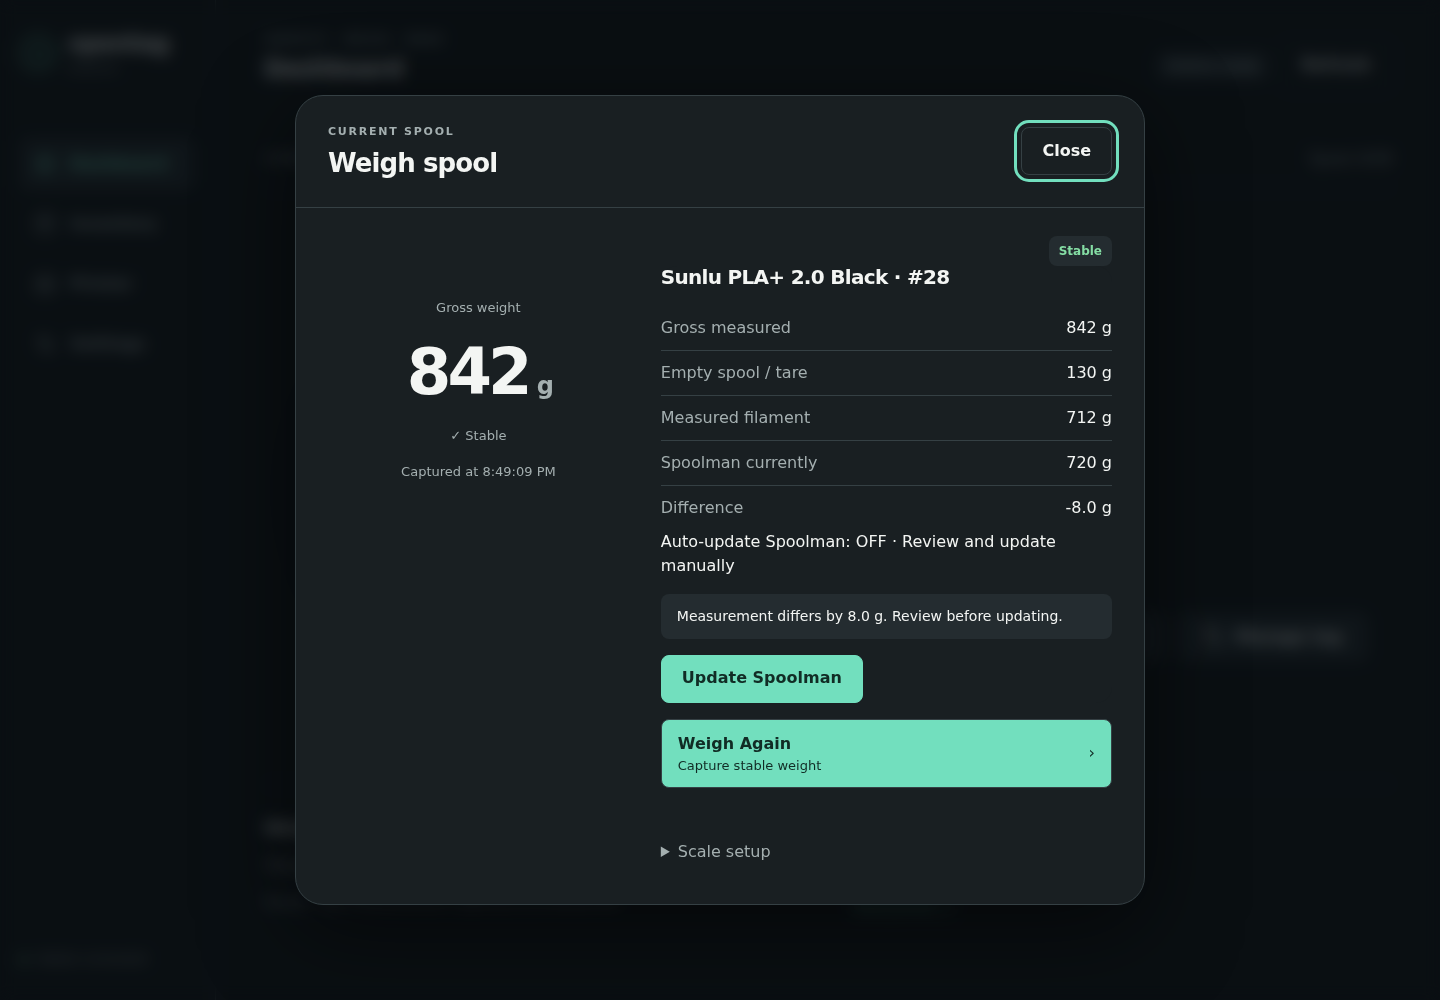
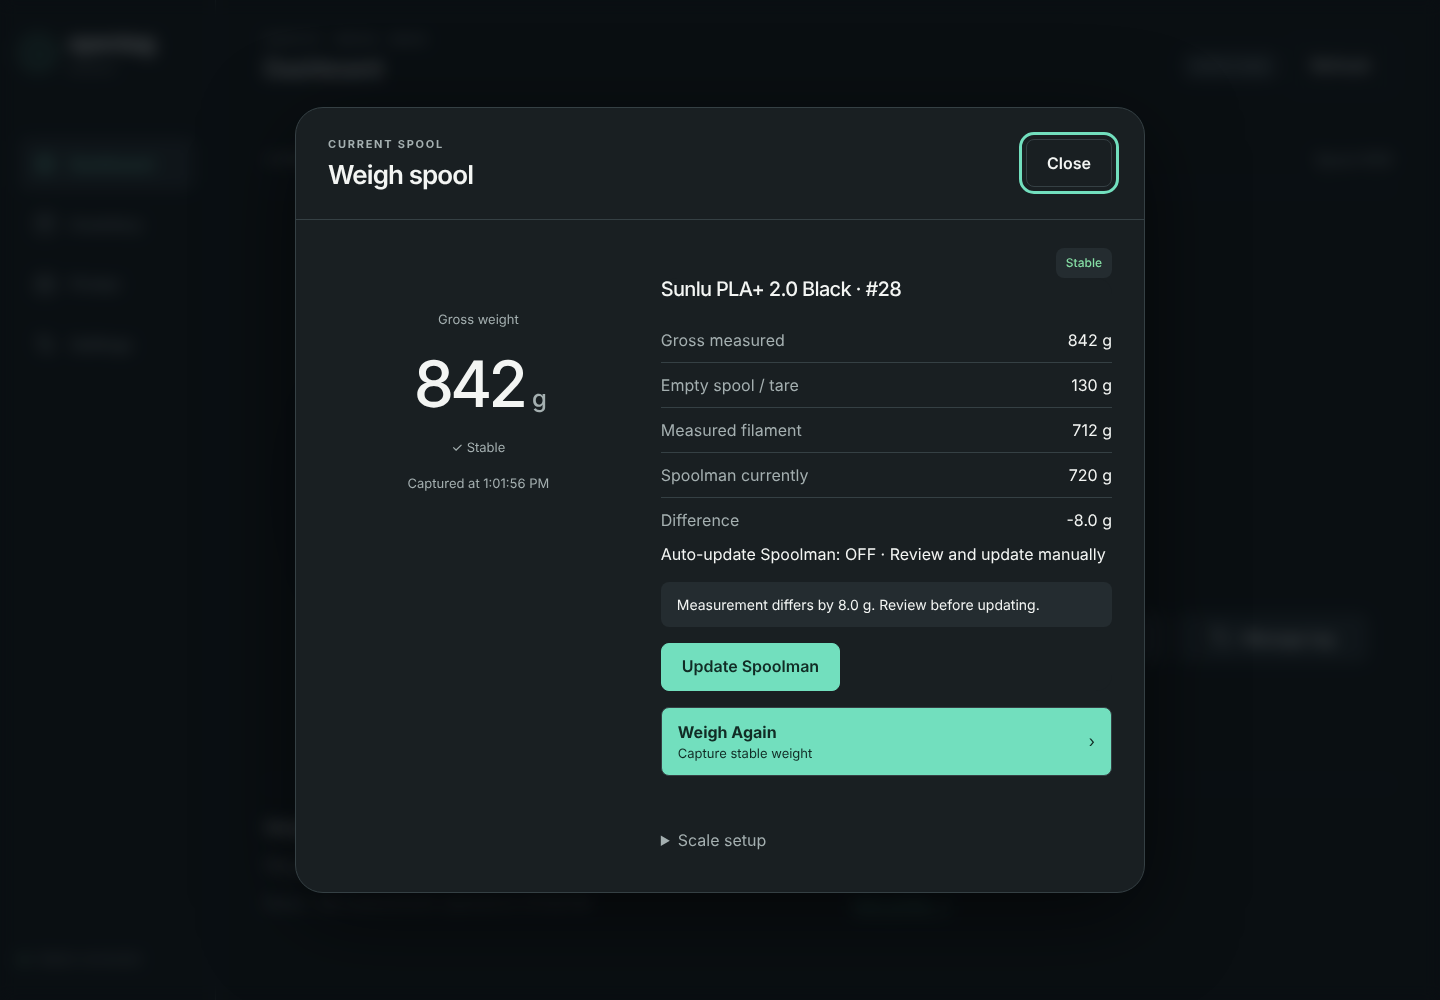
Browser: weigh a blank tag that Spoolman links to a spool
The Dashboard showed such a spool but its main button opened the tag writer.
It now reads Weigh and weighs that spool, like the touchscreen. Screenshots
regenerated for the changed browser assets.

Claude-Session: https://claude.ai/code/session_01KoEe9DaSpv1eRz2MSD1GtP

diff --git a/src/web/ui/product.js b/src/web/ui/product.js
@@ -60,7 +60,7 @@ function renderCurrentSpool() {
   setText('current-name',name);setText('manage-material',name);
   setText('current-vendor',first(s.vendor,t.brand_name,t.brand,''));
   setText('current-material',first(s.material,t.material_abbreviation,''));
-  setText('current-number',blank?'Ready to assign':s.id?'Spool #'+s.id:'Not yet linked');
+  setText('current-number',blank&&!s.id?'Ready to assign':s.id?'Spool #'+s.id:'Not yet linked');
   setText('current-remaining',remaining===null?'—':Math.round(Number(remaining)));
   const percentage=remaining!==null&&Number(initial)>0?Math.max(0,Math.min(100,Math.round(Number(remaining)/Number(initial)*100))):null;
   byId('remaining-summary').hidden=percentage===null;
@@ -78,8 +78,9 @@ function renderCurrentSpool() {
   setText('dashboard-printer',assignments.length?assignments.join(', '):'Choose a toolhead to assign this spool.');
   const v=state.weighSync||{}, sameWeight=s.id&&Number(v.spool_id)===Number(s.id);
   setText('dashboard-weight',sameWeight&&v.measured!=null?formatGrams(v.measured)+' measured · '+formatGrams(v.canonical_remaining)+' in Spoolman':'Weigh this spool to compare it with your inventory.');
-  setText('home-action-label',blank?'Assign tag':state.scale?.measurement?.active?'Weighing…':'Weigh');
-  if(blank)byId('home-weigh').disabled=!!state.maintenance;
+  // A blank tag that Spoolman links to a spool is weighed as that spool.
+  setText('home-action-label',blank&&!s.id?'Assign tag':state.scale?.measurement?.active?'Weighing…':'Weigh');
+  if(blank&&!s.id)byId('home-weigh').disabled=!!state.maintenance;
   byId('spool-edit').disabled=!s.id;byId('tag-update').disabled=!s.id;
   byId('spool-assign').disabled=!s.id||state.maintenance;
 }

diff --git a/src/web/web_assets.cpp b/src/web/web_assets.cpp
@@ -3029,7 +3029,7 @@ setConfigState(CONFIG_STATE.READY);
 }
 
 function startHomeWeigh() {
-if(spoolIdentity().t.blank_compatible)return window.OpenTagWriter.openModal();
+const home=spoolIdentity();if(home.t.blank_compatible&&!home.spool)return window.OpenTagWriter.openModal();
 const scale = asObject(state.scale);
 const calibrated = first(scale.calibrated, scale.calibration_loaded,
 asObject(scale.calibration).configured, false) === true;
@@ -3382,7 +3382,7 @@ function renderCurrentSpool() {
   setText('current-name',name);setText('manage-material',name);
   setText('current-vendor',first(s.vendor,t.brand_name,t.brand,''));
   setText('current-material',first(s.material,t.material_abbreviation,''));
-  setText('current-number',blank?'Ready to assign':s.id?'Spool #'+s.id:'Not yet linked');
+  setText('current-number',blank&&!s.id?'Ready to assign':s.id?'Spool #'+s.id:'Not yet linked');
   setText('current-remaining',remaining===null?'—':Math.round(Number(remaining)));
   const percentage=remaining!==null&&Number(initial)>0?Math.max(0,Math.min(100,Math.round(Number(remaining)/Number(initial)*100))):null;
   byId('remaining-summary').hidden=percentage===null;
@@ -3400,8 +3400,9 @@ function renderCurrentSpool() {
   setText('dashboard-printer',assignments.length?assignments.join(', '):'Choose a toolhead to assign this spool.');
   const v=state.weighSync||{}, sameWeight=s.id&&Number(v.spool_id)===Number(s.id);
   setText('dashboard-weight',sameWeight&&v.measured!=null?formatGrams(v.measured)+' measured · '+formatGrams(v.canonical_remaining)+' in Spoolman':'Weigh this spool to compare it with your inventory.');
-  setText('home-action-label',blank?'Assign tag':state.scale?.measurement?.active?'Weighing…':'Weigh');
-  if(blank)byId('home-weigh').disabled=!!state.maintenance;
+  // A blank tag that Spoolman links to a spool is weighed as that spool.
+  setText('home-action-label',blank&&!s.id?'Assign tag':state.scale?.measurement?.active?'Weighing…':'Weigh');
+  if(blank&&!s.id)byId('home-weigh').disabled=!!state.maintenance;
   byId('spool-edit').disabled=!s.id;byId('tag-update').disabled=!s.id;
   byId('spool-assign').disabled=!s.id||state.maintenance;
 }

diff --git a/documentation-site/docs/daily-use/identify.md b/documentation-site/docs/daily-use/identify.md
@@ -23,7 +23,7 @@ Until then tags are ignored; see [Tag is not detected](../troubleshooting/tag.md
 | Tag has filament data but no Spoolman spool is linked | "Not linked yet: Manage tag > Link to a spool" | "Not yet linked", "Not linked to Spoolman" | Link it. See [below](#link-a-tag-the-station-does-not-recognise). |
 | Spoolman cannot be reached | "Spoolman unavailable; spool not looked up" | "Spoolman resolution failed. Check the backend connection, then reinsert the spool or confirm its ID." | Fix the connection ([Spoolman problems](../troubleshooting/spoolman.md)), then lift the spool and put it back. |
 | Blank tag | "COMPATIBLE BLANK TAG", "Ready to assign", "Open Manage tag to choose a spool". The first button reads **ASSIGN TAG**. | "Blank tag", "Ready to assign". The first button reads **Assign tag**. | [Write the tag](manage-tags.md). |
-| Blank tag, or tag with other data, that Spoolman links to a spool | The spool's name, "Spool #N" and "NNN g remaining", with the normal **WEIGH** button | The spool's name, its weight and "Linked to Spoolman". For a blank tag the first button still reads **Assign tag**. | Weigh it (for a blank tag, on the touchscreen), or [write the tag](manage-tags.md) to put the filament data on it. See [below](#tags-spoolman-links-to-a-spool). |
+| Blank tag, or tag with other data, that Spoolman links to a spool | The spool's name, "Spool #N" and "NNN g remaining", with the normal **WEIGH** button | The spool's name, "Spool #N", its weight and "Linked to Spoolman", with the normal **Weigh** button | Weigh it, or [write the tag](manage-tags.md) to put the filament data on it. See [below](#tags-spoolman-links-to-a-spool). |
 | Tag the station cannot use | On the **Tag** page: "This tag can't be used as it is", a reason, and "Use a blank NXP ICODE SLIX2 tag." | Dashboard: "Reading spool…" and "Tag needs attention". In **Manage tag**: "Unsupported" and "OpenPrintTag decode failed / unsupported" | Use a blank NXP ICODE SLIX2 tag. See [Which tags work](../openprinttag/supported-tags.md). |
 | Two or more tags on the reader | Home keeps showing "Place a spool". The **Tag** page shows "Reading tag..." and does not finish. | In **Manage tag**: "Multiple NFC-V tags detected" and "Remove extra tags and present exactly one tag." | Leave one tag on the reader. |
 
